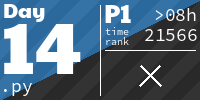
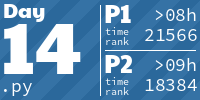
[2024][DAY 14] add solution 2

diff --git a/2024/day14.py b/2024/day14.py
@@ -1,4 +1,7 @@
 import math
+import numpy as np
+import pygame
+import time
 
 filepath = "day14.txt"
 
@@ -46,13 +49,11 @@ def define_quadrants(field):
 
     return [q1, q2, q3, q4]
 
-
 def filter_robot_in_quadrant(robot, x_range, y_range):
     if robot.x in list(range(x_range[0], x_range[1])) and robot.y in list(range(y_range[0], y_range[1])):
         return True
     else:
         return False
-
 
 def solve_part_i():
     robots = read_file()
@@ -73,4 +74,97 @@ def solve_part_i():
         result = math.prod(v for k,v in robot_in_quadrant.items())
         print(f"Part I: {result}")
 
-solve_part_i()
+def robots_to_array(field, robots):
+    canvas = np.full((field[1], field[0]), 0)
+
+    for robot in robots:
+        canvas[robot.y][robot.x] = 1
+
+    return canvas
+
+
+def solve_part_ii():
+    robots = read_file()
+    field = (101, 103)
+
+    # Initialize pygame
+    pygame.init()
+
+    # Set up dimensions
+    rows, cols = field  # Size of the 2D array
+    cell_size = 10  # Size of each cell in pixels
+    width, height = cols * cell_size, rows * cell_size
+
+    # Create a 2D array filled with '.'
+    array = np.full((rows, cols), '.', dtype=str)
+
+    # Set up the screen
+    screen = pygame.display.set_mode((width, height))
+    pygame.display.set_caption("2D Array Visualization")
+
+    # Colors
+    BLACK = (0, 0, 0)
+    WHITE = (255, 255, 255)
+    RED = (255, 0, 0)
+    BEIGE = (255, 216, 172)
+
+    def draw_grid(arr):
+        for row in range(rows):
+            for col in range(cols):
+                # Determine the color based on the value in the array
+                if arr[row, col] == '.':
+                    color = BEIGE  # Color for '.'
+                else:
+                    color = RED  # Color for 'X'
+
+                # Draw the cell
+                pygame.draw.rect(
+                    screen,
+                    color,
+                    pygame.Rect(col * cell_size, row * cell_size, cell_size, cell_size)
+                )
+                # Draw a border around the cell
+                pygame.draw.rect(
+                    screen,
+                    BLACK,
+                    pygame.Rect(col * cell_size, row * cell_size, cell_size, cell_size),
+                    1
+                )
+
+    # Main loop
+    running = True
+    second = 0
+
+    while running:
+        # Handle events
+        for event in pygame.event.get():
+            if event.type == pygame.QUIT:
+                running = False
+
+        print(f"Second: {second}")
+        # array = np.full((rows, cols), '.', dtype=str)
+        if second < 100000:
+            for robot in robots:
+                array[robot.x, robot.y] = 'X'
+                move_robot(robot, 1, field)
+            second += 1
+
+        # Clear the screen
+        # screen.fill(BEIGE)
+
+        # Draw the updated grid
+        draw_grid(array)
+        pygame.image.save(screen, f"second_{second}.png")
+        array = np.full((rows, cols), '.', dtype=str)
+
+        # Update the display
+        pygame.display.flip()
+
+        # Delay for visibility
+        # time.sleep(0.5)
+
+    # Quit pygame
+    pygame.quit()
+
+
+solve_part_ii()

diff --git a/README.md b/README.md
@@ -1,6 +1,6 @@
 <!-- AOC TILES BEGIN -->
 <h1 align="center">
-  2024 - 23 ⭐ - Python
+  2024 - 24 ⭐ - Python
 </h1>
 <a href="2024/day01.py">
   <img src=".aoc_tiles/tiles/2024/01.png" width="161px">
